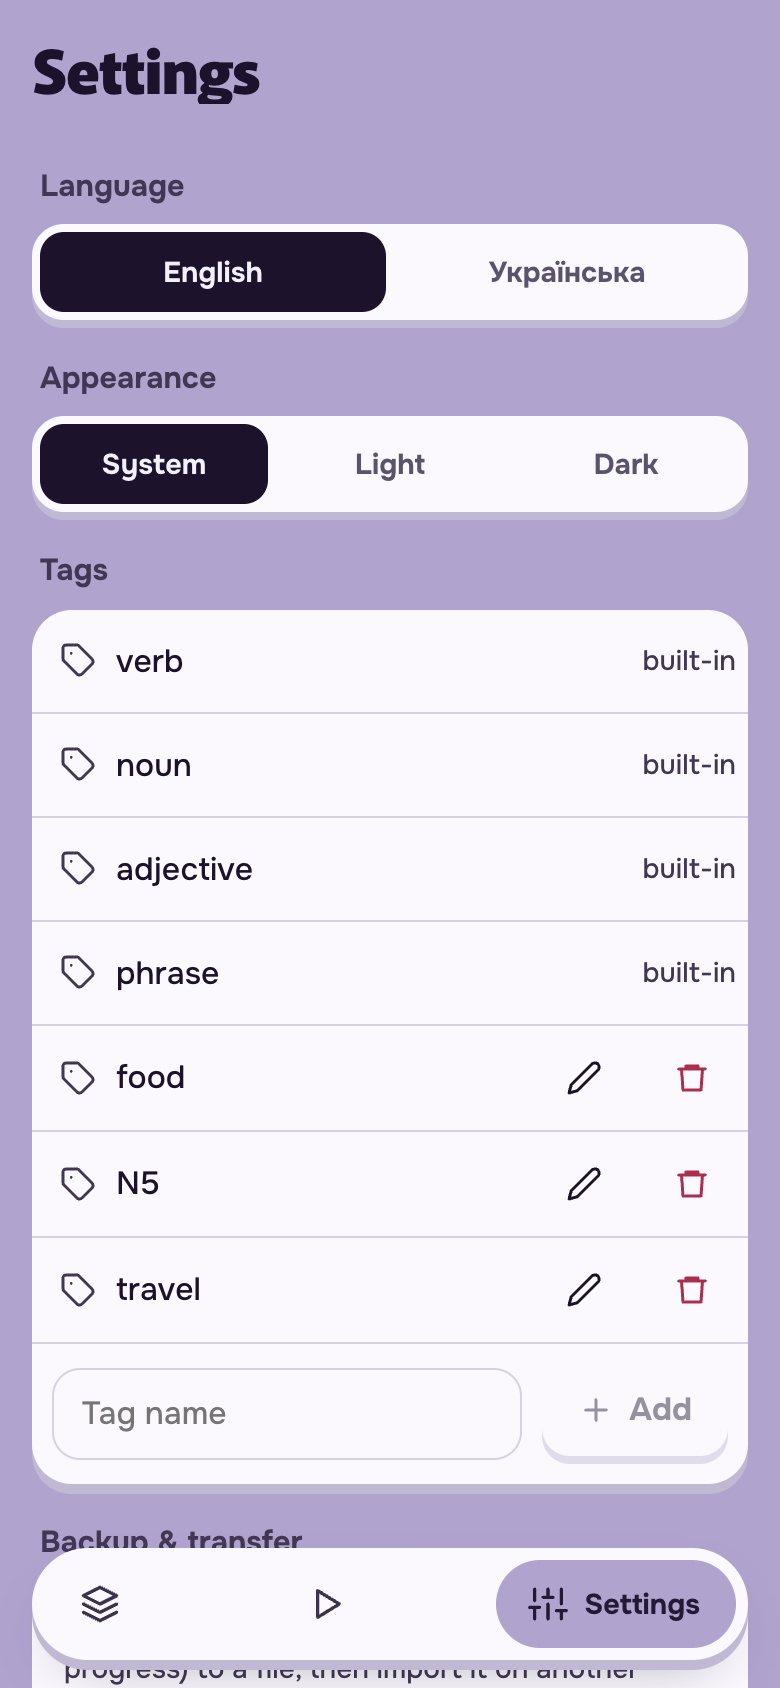
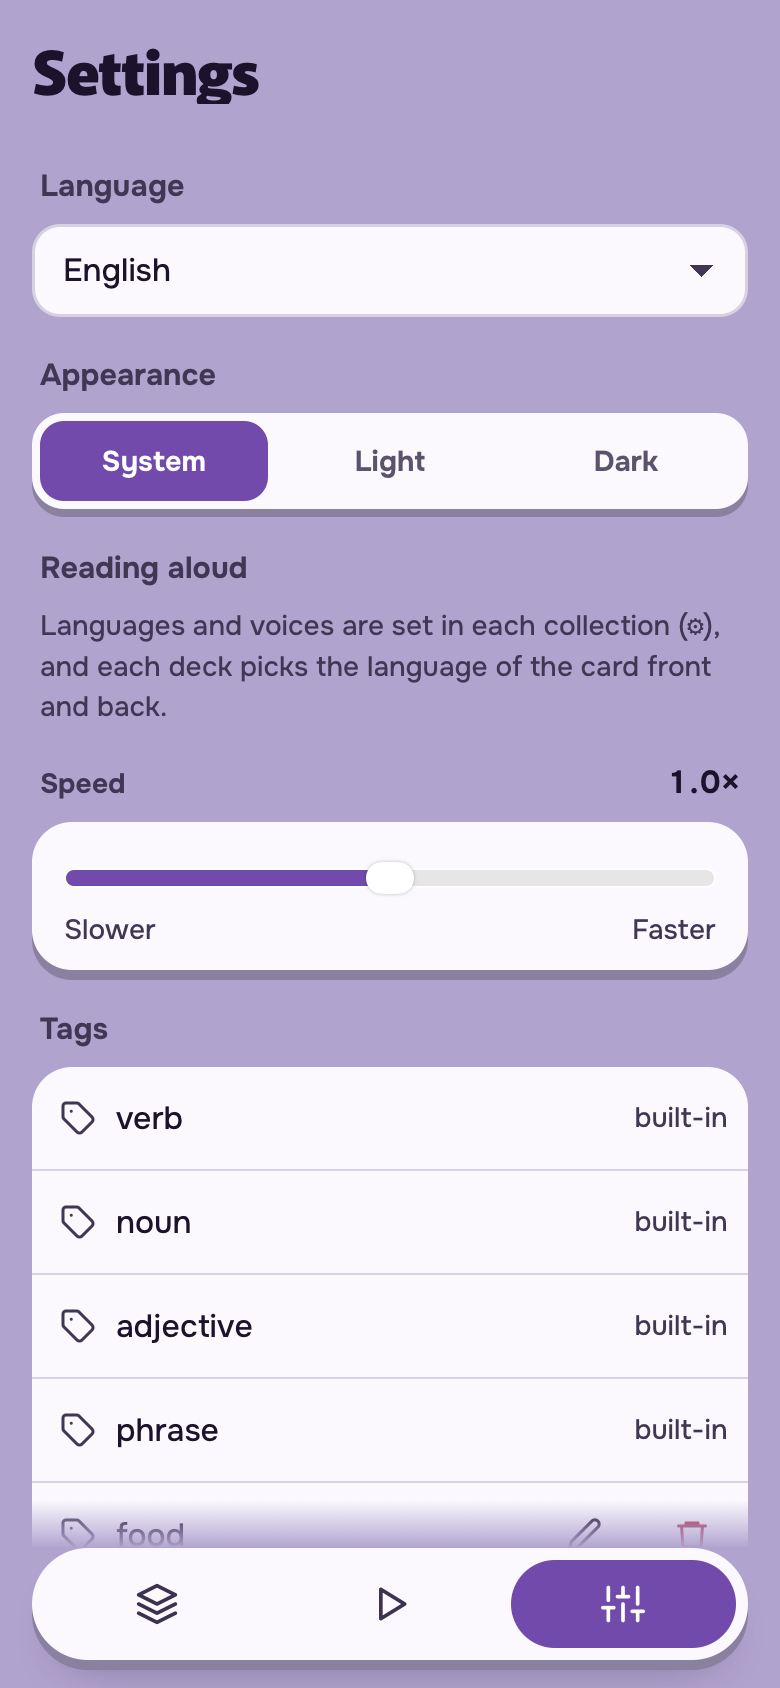
Retake README screenshots with collections and reading aloud
Move the demo backup to the collections format (Japanese N5, Trip to
Tokyo; read aloud in Japanese and English) and add `npm run screenshots`,
which imports it and takes every README shot in WebKit at iPhone size.

diff --git a/e2e/screenshots.spec.ts b/e2e/screenshots.spec.ts
@@ -1,0 +1,101 @@
+import { expect, test, type Page } from '@playwright/test';
+import { fileURLToPath } from 'node:url';
+
+// README screenshots from the demo library (docs/demo/demo-backup.json). Not part of the normal run:
+//   npm run screenshots
+// Writes docs/screenshots/*.png at 390×844, 2× (an iPhone-sized window in WebKit).
+test.skip(!process.env.SHOTS, 'set SHOTS=1 to take the README screenshots');
+test.describe.configure({ timeout: 180_000 });
+test.use({ viewport: { width: 390, height: 844 }, deviceScaleFactor: 2 });
+
+const backup = fileURLToPath(new URL('../docs/demo/demo-backup.json', import.meta.url));
+const dir = process.env.SHOTS_DIR ?? fileURLToPath(new URL('../docs/screenshots/', import.meta.url));
+
+async function shot(page: Page, name: string): Promise<void> {
+  // Let toasts, entry animations and fonts settle.
+  await page.evaluate(() => document.fonts.ready);
+  await page.waitForTimeout(600);
+  await page.screenshot({ path: `${dir}/${name}.png`, animations: 'disabled', caret: 'hide' });
+}
+
+async function importDemo(page: Page): Promise<void> {
+  await page.goto('#/settings');
+  const chooser = page.waitForEvent('filechooser');
+  await page.getByRole('button', { name: 'Import backup' }).click();
+  await (await chooser).setFiles(backup);
+  await page.getByRole('button', { name: /Replace everything/ }).click();
+  await page.getByRole('button', { name: 'Replace everything', exact: true }).click();
+  await expect(page.getByText('travel', { exact: true })).toBeVisible();
+  // Start clean, without the "Backup imported" toast.
+  await page.reload();
+}
+
+test('README screenshots', async ({ page }) => {
+  await importDemo(page);
+
+  await page.goto('#/');
+  await expect(page.getByText('Trip to Tokyo')).toBeVisible();
+  await shot(page, 'home');
+
+  await page.getByText('Japanese N5').click();
+  await expect(page.getByText('Japanese N5 verbs')).toBeVisible();
+  await shot(page, 'collection');
+
+  await page.getByRole('button', { name: 'Collection settings' }).click();
+  await shot(page, 'collection-settings');
+  await page.keyboard.press('Escape');
+
+  await page.getByText('Japanese N5 verbs').click();
+  await expect(page.getByRole('heading', { name: 'Japanese N5 verbs' })).toBeVisible();
+  await shot(page, 'deck');
+
+  await page.getByRole('link', { name: 'Test' }).click();
+  await expect(page.getByRole('button', { name: /^Start · / })).toBeVisible();
+  await shot(page, 'test-setup');
+
+  await page.getByRole('button', { name: /^Start · / }).click();
+  const gotIt = page.getByRole('button', { name: 'Got it' });
+  if (await gotIt.isVisible().catch(() => false)) await gotIt.click();
+  await expect(page.locator('.flipper').first()).toBeVisible();
+
+  // Answer a couple of cards so the counter and undo mean something.
+  const answer = async (name: string) => {
+    await page.getByRole('button', { name, exact: true }).click();
+    await page.waitForTimeout(700);
+  };
+  await answer('Know');
+  await answer('Don’t know');
+  await answer('Know');
+
+  await page.getByRole('button', { name: 'Flip', exact: true }).click();
+  await page.waitForTimeout(700);
+  await page.getByRole('button', { name: 'Notes' }).last().click();
+  await shot(page, 'test-back');
+
+  // Halfway through a swipe to the right.
+  const box = (await page.locator('.flipper').first().boundingBox())!;
+  const y = box.y + box.height * 0.8; // below the buttons on the card
+  const x0 = box.x + box.width / 2;
+  await page.mouse.move(x0, y);
+  await page.mouse.down();
+  for (let i = 1; i <= 8; i++) await page.mouse.move(x0 + (box.width * 0.42 * i) / 8, y - (box.height * 0.04 * i) / 8);
+  await shot(page, 'test-swipe');
+  await page.mouse.up();
+
+  await page.waitForTimeout(700);
+  await answer('Don’t know');
+  for (let i = 0; i < 3; i++) await answer('Know');
+  await page.getByRole('button', { name: 'Finish' }).click();
+  await shot(page, 'summary');
+  await page.getByRole('button', { name: 'Done' }).click();
+
+  await page.goto('#/settings');
+  await shot(page, 'settings');
+
+  await page.evaluate(() => localStorage.setItem('theme', '"dark"'));
+  await page.goto('#/');
+  await page.reload();
+  await expect(page.locator('html')).toHaveAttribute('data-theme', 'dark');
+  await page.getByText('Japanese N5').click();
+  await shot(page, 'collection-dark');
+});

diff --git a/README.md b/README.md
@@ -9,14 +9,16 @@ I built this for my partner: she wanted a flashcard app on her iPhone and none o
 **Live app:** https://flashcards.hzinchenko.com/
 
 <p>
-  <img src="docs/screenshots/decks.png" alt="Deck list with a Review weak cards button, a play button per deck and a card-level legend" width="220">
-  <img src="docs/screenshots/test-setup.png" alt="Test setup: decks, number of cards, direction, mode, order, levels and tags" width="220">
-  <img src="docs/screenshots/test-back.png" alt="Card back with tags and notes, with undo in the header" width="220">
+  <img src="docs/screenshots/home.png" alt="Collections home: Japanese N5 and Trip to Tokyo with card counts, level bars and a card-level legend" width="220">
+  <img src="docs/screenshots/collection.png" alt="A collection with its decks, a play button per deck and the languages it reads aloud" width="220">
+  <img src="docs/screenshots/collection-settings.png" alt="Collection settings: reading-aloud languages with a voice picker for each" width="220">
+  <img src="docs/screenshots/test-setup.png" alt="Test setup: decks, number of cards, which side first, mode, order and levels" width="220">
+  <img src="docs/screenshots/test-back.png" alt="Card back with a read-aloud button, tags and notes, with undo in the header" width="220">
   <img src="docs/screenshots/test-swipe.png" alt="Swiping a card right to mark it known" width="220">
-  <img src="docs/screenshots/summary.png" alt="Summary after quitting early: 6 of 7 known, missed cards listed, Continue button" width="220">
-  <img src="docs/screenshots/deck.png" alt="Deck with its cards and tags" width="220">
-  <img src="docs/screenshots/settings.png" alt="Settings with language and System, Light, Dark appearance" width="220">
-  <img src="docs/screenshots/decks-dark.png" alt="Deck list in dark theme" width="220">
+  <img src="docs/screenshots/summary.png" alt="Summary after finishing early: 6 of 8 known on the first try, with Continue, Retry missed and the missed cards" width="220">
+  <img src="docs/screenshots/deck.png" alt="Deck with its cards, tags, search and Reorder" width="220">
+  <img src="docs/screenshots/settings.png" alt="Settings with language, appearance and reading-aloud speed" width="220">
+  <img src="docs/screenshots/collection-dark.png" alt="A collection in dark theme" width="220">
 </p>
 
 ## Features

diff --git a/CLAUDE.md b/CLAUDE.md
@@ -9,6 +9,7 @@ npm run check      # svelte-check + TypeScript; run after any change
 npm test           # Vitest (node env, fake-indexeddb), tests/**/*.test.ts
 npm run e2e        # Playwright, WebKit, against a fresh build on :4174 (e2e/*.spec.ts)
 npm run perf       # load test with big libraries; prints timings (e2e/perf.spec.ts)
+npm run screenshots # README screenshots from docs/demo/demo-backup.json (e2e/screenshots.spec.ts)
 npm run build      # into dist/
 npm run preview    # http://localhost:4173/ (build first)
 ```
